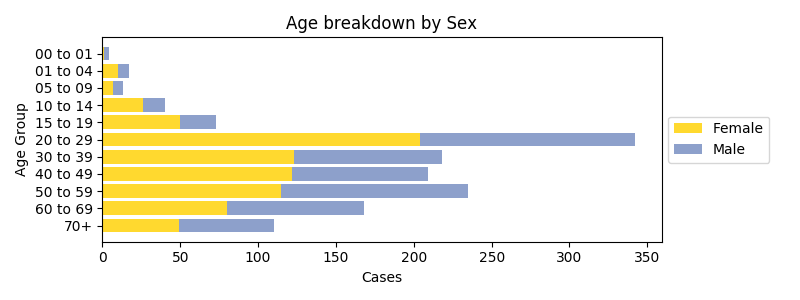
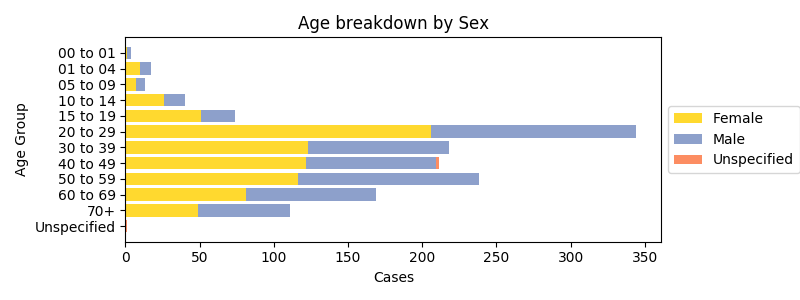
Updated data

diff --git a/NZModel/nz_data.py b/NZModel/nz_data.py
@@ -43,7 +43,8 @@ header=3
 #filename = "covid-case_list-16-april.xlsx"
 #filename = "covid-19-case-list-17-april-2020.xlsx"
 #filename = "web-covid-confprob_20200418-2.xlsx"
-filename = "covid-casedeatails-19april2020.xlsx"
+#filename = "covid-casedeatails-19april2020.xlsx"
+filename = "covid-caselist-20april.xlsx"
 
 # The data keeps getting worse *sigh*
 def date_decoder(x):
@@ -187,6 +188,9 @@ def plot_demographics():
     ###################################################################
 
     plt.figure(figsize=(8,4))
+    age = "Age group"
+    data[age].replace(' ', np.nan, inplace=True)
+    data[age].fillna("Unspecified", inplace=True)
 
     def reformat_age_range(label):
         label = label.strip()
@@ -195,14 +199,16 @@ def plot_demographics():
             return '00 to %02d' % int(label[1:])
         elif label[-1] == '+':
             return str(int(label[:-1])) + '+'
+        elif label == "Unspecified":
+            return label
         else:
             x = [int(x) for x in label.split(' to ')]
             return "%02d to %02d" % (x[0], x[1])
         
     # Clean up ages
-    data["Age group"] = data["Age group"].map(reformat_age_range)
+    data[age] = data[age].map(reformat_age_range)
     
-    pi1 = data.pivot_table(index = ["DHB", "Age group"], aggfunc="size")
+    pi1 = data.pivot_table(index = ["DHB", age], aggfunc="size")
 
     DHBs = pi1.index.levels[0]
 
@@ -239,7 +245,7 @@ def plot_demographics():
     #   Age Breakdown - Gender
     ###################################################################
     plt.figure(figsize=(8,3))
-
+    data["Sex"].fillna("Unspecified", inplace=True)
     pi1 = data.pivot_table(index = ["Age group", "Sex"], aggfunc="size")
 
     groups = list(pi1.index.levels[0])
